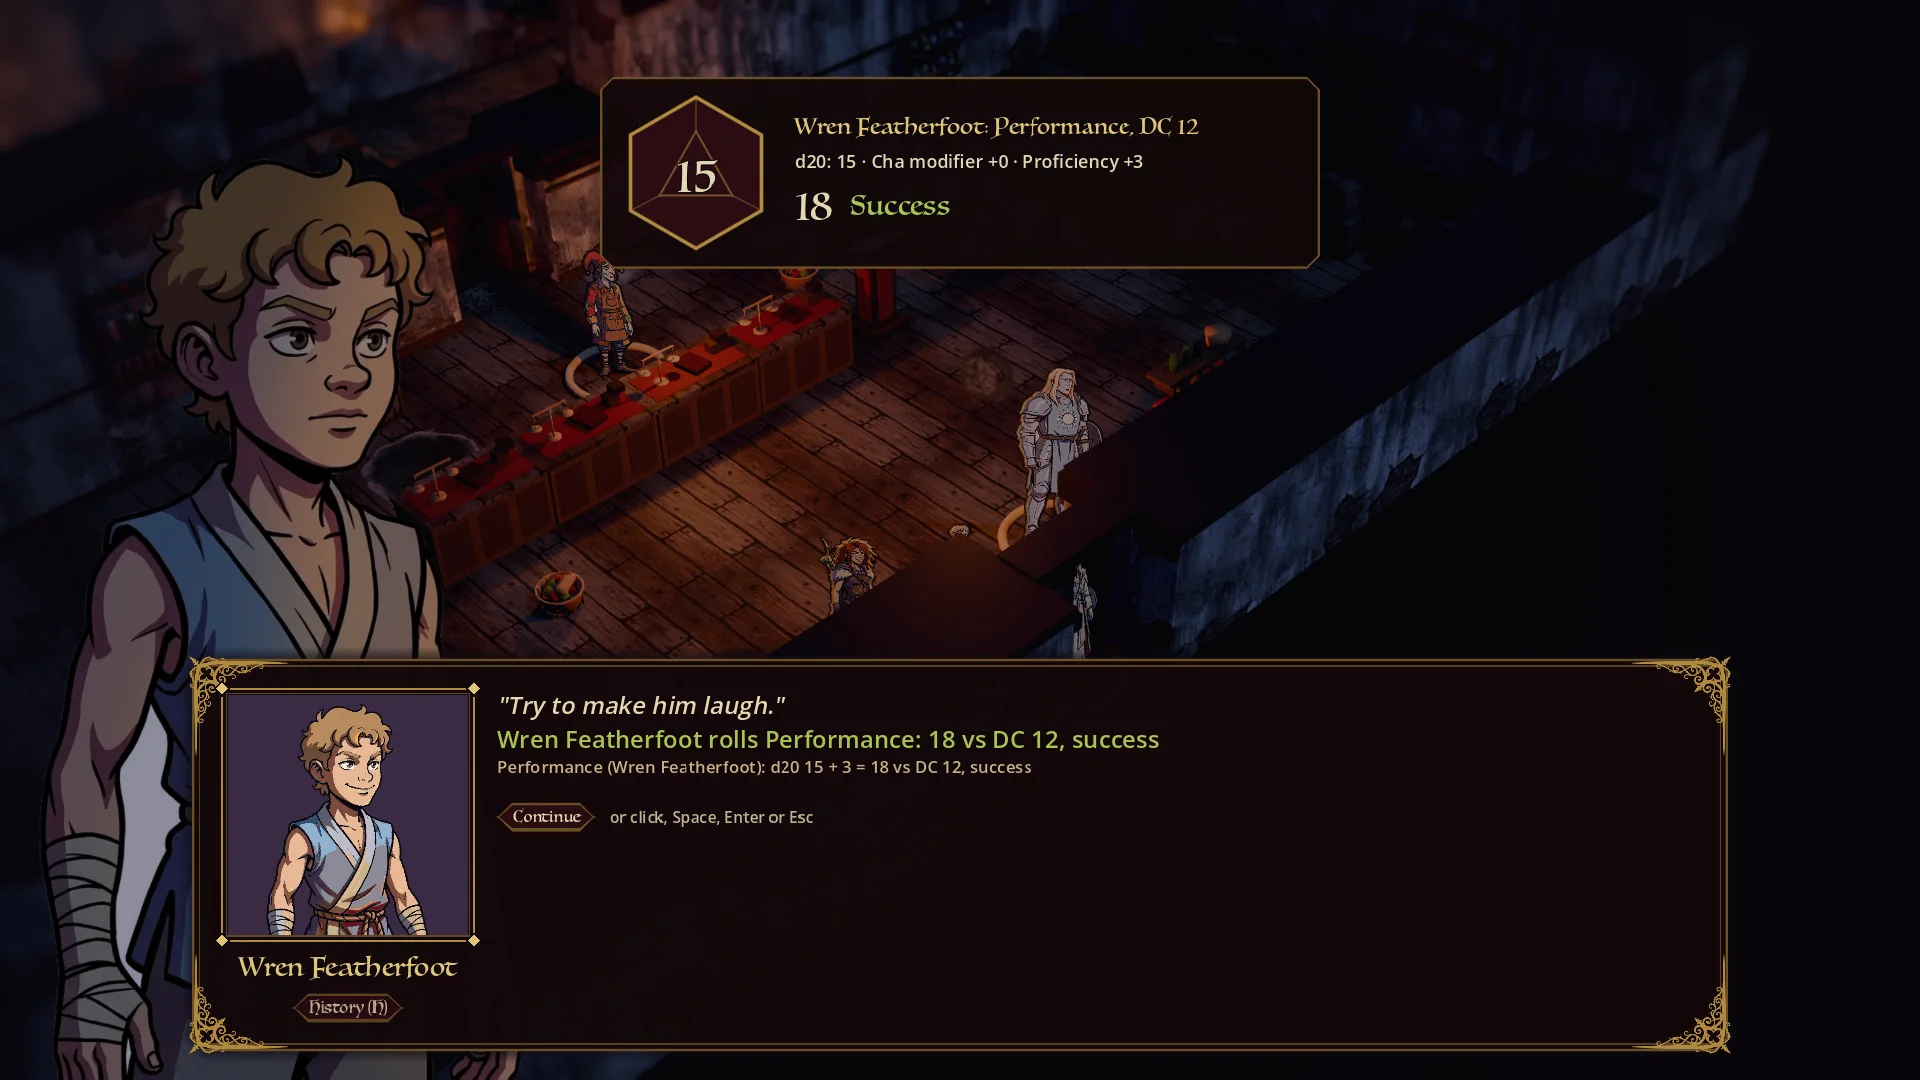
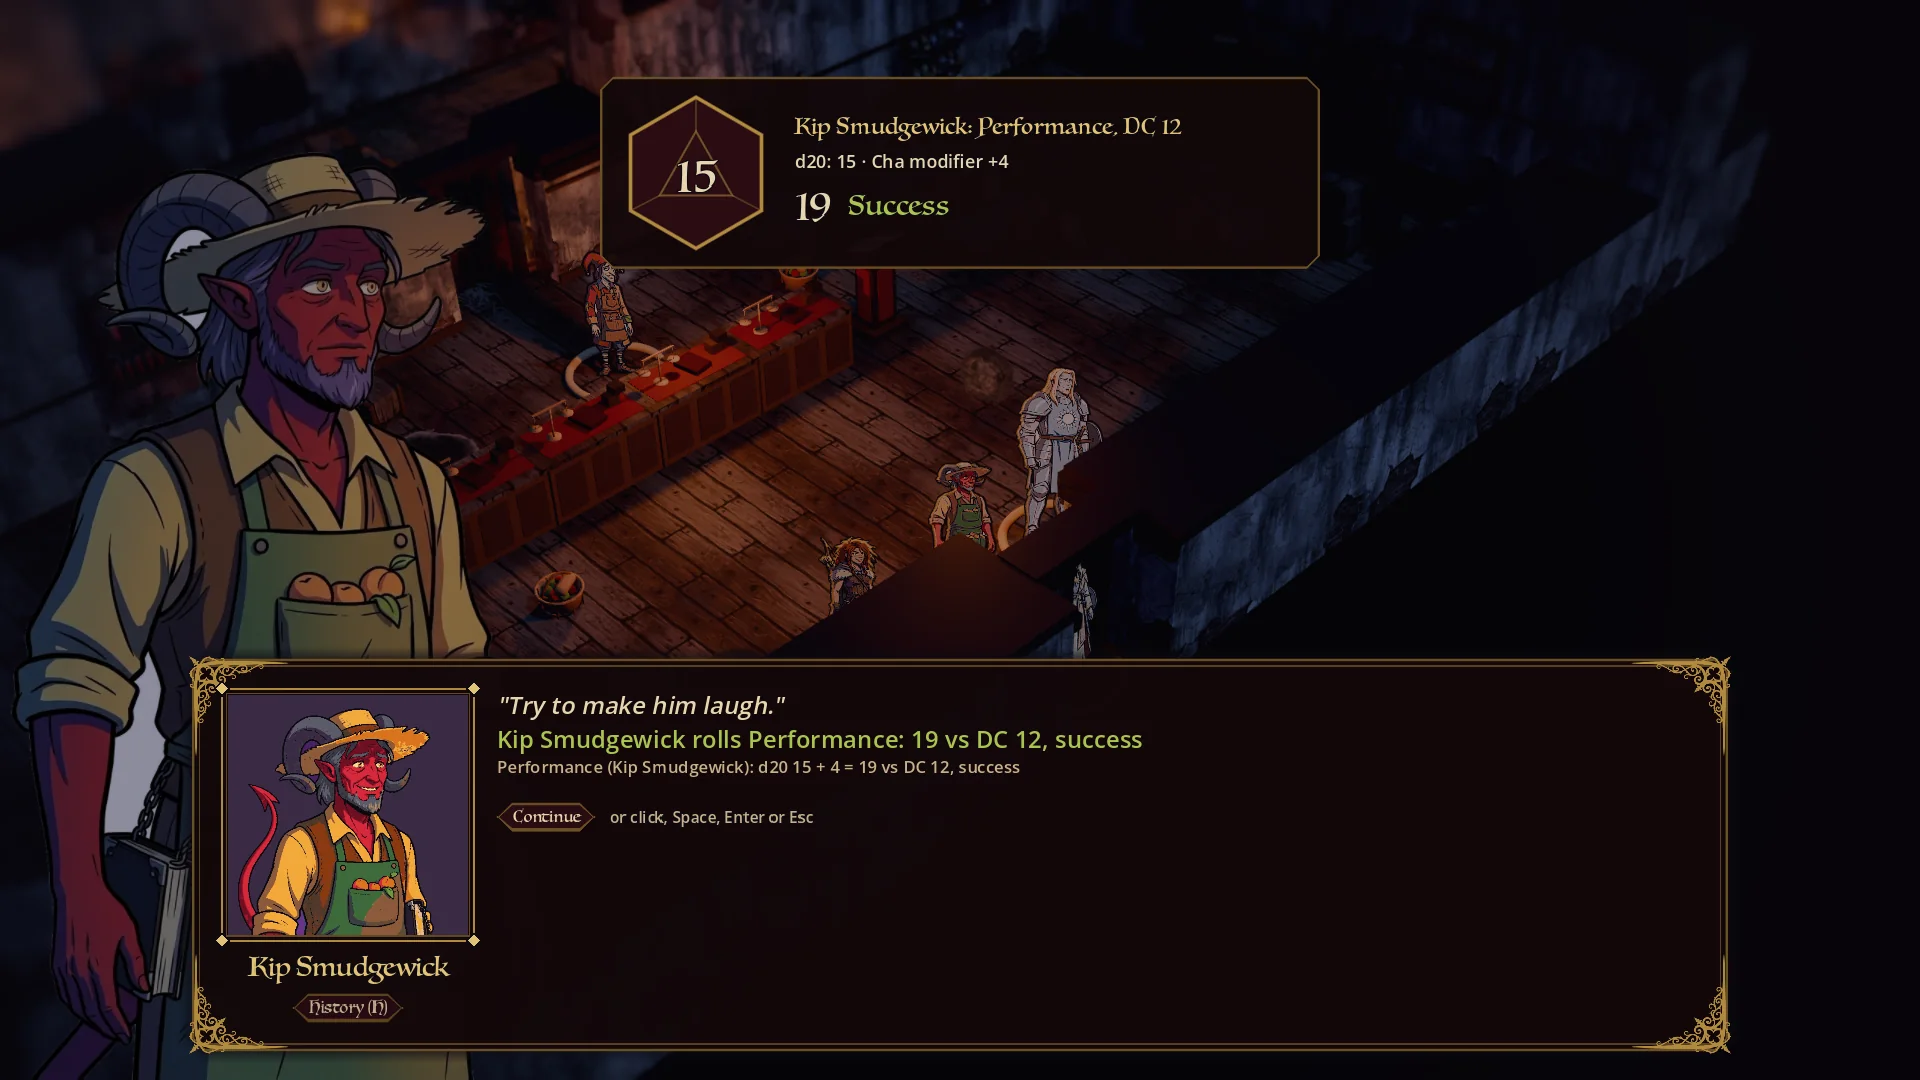
Conversation screenshots with Kip speaking for the party

diff --git a/index.html b/index.html
@@ -326,9 +326,9 @@
 <section class="section dive" id="conversations">
   <div class="wrap dive-grid">
     <div class="dive-media" data-switcher>
-      <figure class="frame dive-main"><img src="media/shots/dialogue_busts.webp" alt="A conversation at the Blue Water Inn, the party's speaker and the innkeeper facing each other" loading="lazy"></figure>
+      <figure class="frame dive-main"><img src="media/shots/dialogue_busts.webp" alt="Kip and the innkeeper face to face at the Blue Water Inn" loading="lazy"></figure>
       <div class="thumbs" role="list">
-        <button role="listitem" class="thumb is-on" data-src="media/shots/dialogue_busts.webp" data-alt="A conversation at the Blue Water Inn, the party's speaker and the innkeeper facing each other"><img src="media/thumbs/dialogue_busts.webp" alt="" loading="lazy"><span class="sr">Face to face</span></button>
+        <button role="listitem" class="thumb is-on" data-src="media/shots/dialogue_busts.webp" data-alt="Kip and the innkeeper face to face at the Blue Water Inn"><img src="media/thumbs/dialogue_busts.webp" alt="" loading="lazy"><span class="sr">Face to face</span></button>
         <button role="listitem" class="thumb" data-src="media/shots/dialogue_check.webp" data-alt="A conversation with a Performance check showing who rolls and their chance"><img src="media/thumbs/dialogue_check.webp" alt="" loading="lazy"><span class="sr">A skill check</span></button>
         <button role="listitem" class="thumb" data-src="media/shots/dialogue_d20.webp" data-alt="The d20 rolling for a check, with the DC and every bonus"><img src="media/thumbs/dialogue_d20.webp" alt="" loading="lazy"><span class="sr">The d20</span></button>
       </div>
